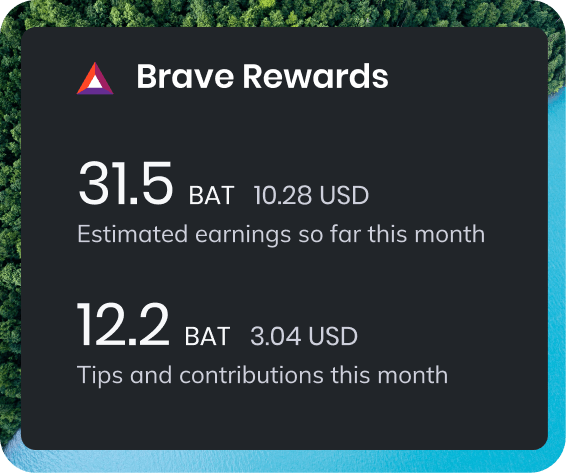
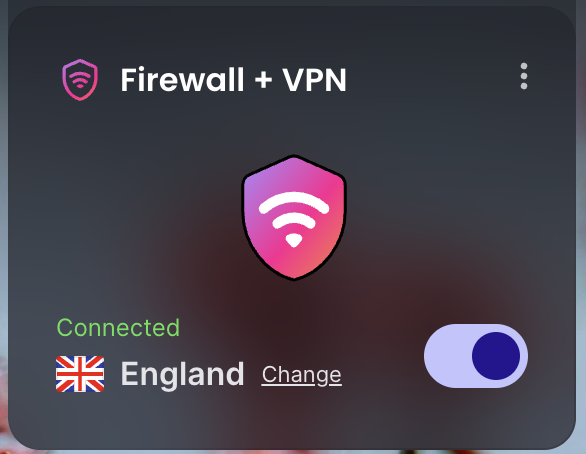
Updated widget menu/customize entry

diff --git a/components/brave_new_tab_ui/containers/newTab/index.tsx b/components/brave_new_tab_ui/containers/newTab/index.tsx
@@ -41,9 +41,6 @@ import BraveNewsHint from '../../components/default/braveNews/hint'
 import SponsoredImageClickArea from '../../components/default/sponsoredImage/sponsoredImageClickArea'
 import GridWidget from './gridWidget'
 
-import Icon from '@brave/leo/react/icon'
-
-import * as style from './style'
 import { defaultState } from '../../storage/new_tab_storage'
 import { EngineContextProvider } from '../../components/search/EngineContext'
 
@@ -499,31 +496,6 @@ class NewTabPage extends React.Component<Props, State> {
       return null
     }
 
-    const customMenuItems = [
-      {
-        label: 'rewardsOpenPanel',
-        renderIcon: () => {
-          return (
-            <style.rewardsMenuIcon>
-              <Icon name='product-bat-outline' />
-            </style.rewardsMenuIcon>
-          )
-        },
-        onClick: () => { chrome.braveRewards.openRewardsPanel() }
-      },
-      {
-        label: 'rewardsSettings',
-        renderIcon: () => {
-          return (
-            <style.rewardsMenuIcon>
-              <Icon name='settings' />
-            </style.rewardsMenuIcon>
-          )
-        },
-        onClick: () => { window.open('chrome://rewards', '_blank', 'noopener') }
-      }
-    ]
-
     const onSelfCustodyInviteDismissed = () => {
       chrome.braveRewards.dismissSelfCustodyInvite()
     }
@@ -535,8 +507,7 @@ class NewTabPage extends React.Component<Props, State> {
     return (
       <Rewards
         {...rewardsState}
-        widgetTitle={getLocale('rewardsWidgetBraveRewards')}
-        onLearnMore={this.learnMoreRewards}
+        widgetTitle={'Brave VPN'}
         menuPosition={'left'}
         isCardWidget
         paddingType={'none'}
@@ -548,7 +519,6 @@ class NewTabPage extends React.Component<Props, State> {
         showContent={showContent}
         onShowContent={this.setForegroundStackWidget.bind(this, 'rewards')}
         onDismissNotification={this.dismissNotification}
-        customMenuItems={customMenuItems}
         onSelfCustodyInviteDismissed={onSelfCustodyInviteDismissed}
         onTermsOfServiceUpdateAccepted={onTosUpdateAccepted}
         braveVPNState={this.props.braveVPNData}

diff --git a/components/brave_new_tab_ui/containers/newTab/settings/cards.tsx b/components/brave_new_tab_ui/containers/newTab/settings/cards.tsx
@@ -76,10 +76,10 @@ function CardSettings({ toggleShowBraveTalk, showBraveTalk, braveTalkSupported, 
       <StyledBannerImage src={rewardsBanner} />
       <StyledSettingsInfo>
         <StyledSettingsTitle>
-          {getLocale('braveRewardsTitle')}
+          {'Firewall + VPN'}
         </StyledSettingsTitle>
         <StyledSettingsCopy>
-          {getLocale('rewardsWidgetDesc')}
+          {'Extra privacy & security online'}
         </StyledSettingsCopy>
       </StyledSettingsInfo>
       <ToggleButton on={showRewards} toggleFunc={toggleShowRewards} />
